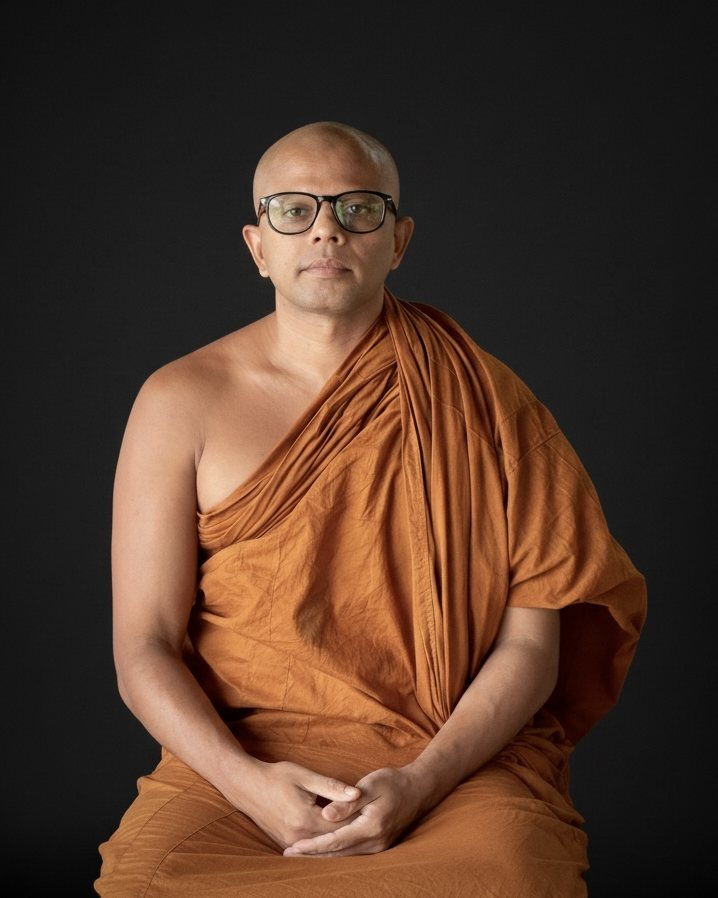
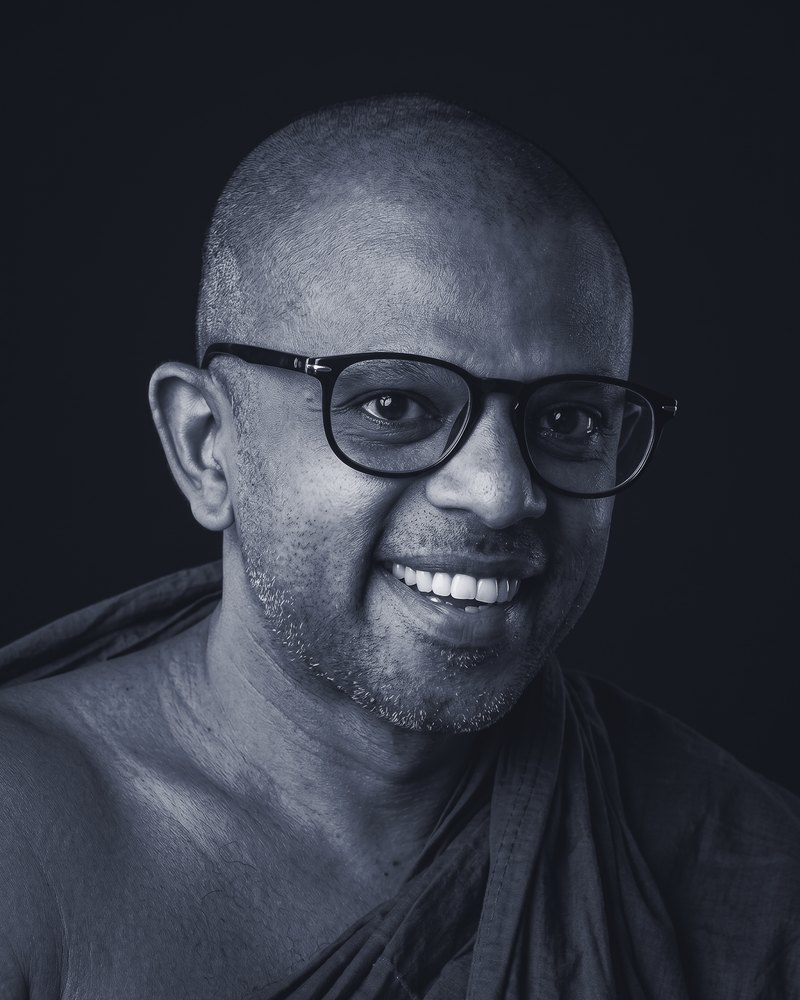
Replace the author portrait with the black-and-white frame
A closer head-and-shoulders crop, which reads far better than the full seated
figure at the 11rem the author block gives it, and is more personal besides.

Cropped to 4:5 from 1792x2394, EXIF stripped, 800x1000.

Toned rather than left neutral: a cool duotone keyed to the site tokens —
shadows to the near-black ink, midtones toward the pen blue (#333C56),
highlights to the paper. A neutral grey photograph on a cool ground reads as
foreign to the page; this sits in the palette. The recipe is in the README so
any replacement can be matched.

diff --git a/rising-and-falling.html b/rising-and-falling.html
@@ -122,7 +122,7 @@ if(t==="dark"||t==="light")document.documentElement.setAttribute("data-theme",t)
                and this placeholder disappears on its own. -->
           <img class="portrait" src="assets/img/author.jpg"
                alt="Bhante Homagama Rewatha"
-               width="718" height="898" loading="lazy"
+               width="800" height="1000" loading="lazy"
                onerror="this.outerHTML='&lt;div class=&quot;portrait portrait--empty&quot; role=&quot;img&quot; aria-label=&quot;Portrait of Bhante Homagama Rewatha, forthcoming&quot;&gt;Portrait forthcoming&lt;/div&gt;'">
           <div>
             <p>

diff --git a/README.md b/README.md
@@ -37,11 +37,16 @@ widen the SPF record, which today reads `v=spf1 -all` (the domain declares it
 sends no mail at all).
 
 **2. Author photograph — done.**
-`assets/img/author.jpg`, cropped to 4:5 and stripped of EXIF. It is shown in
-full colour deliberately: the page is otherwise near-monochrome, so the robe is
-the one warm element on the site. To replace it, drop in another 4:5 image at
-the same path. If the file is ever missing, a "Portrait forthcoming" placeholder
-takes its place automatically.
+`assets/img/author.jpg`, cropped to 4:5, stripped of EXIF, 800 × 1000.
+
+It is a black-and-white frame carrying a deliberate cool duotone, keyed to the
+site tokens: shadows to the near-black ink, midtones pulled toward the pen blue
+(#333C56), highlights to the paper. That is why it sits with the page instead of
+reading as a neutral grey photo dropped onto a cool ground. To replace it, drop
+in another 4:5 image at the same path — and if you want the same treatment, the
+recipe is `ImageOps.colorize(gray, black=(18,20,26), white=(243,244,246),
+mid=(84,91,110))`. If the file is ever missing, a "Portrait forthcoming"
+placeholder takes its place automatically.
 
 **3. Confirm the press name.**
 The brief said *Hellstern Press*; the logo says *Hellstern Schwegler Press*. The
